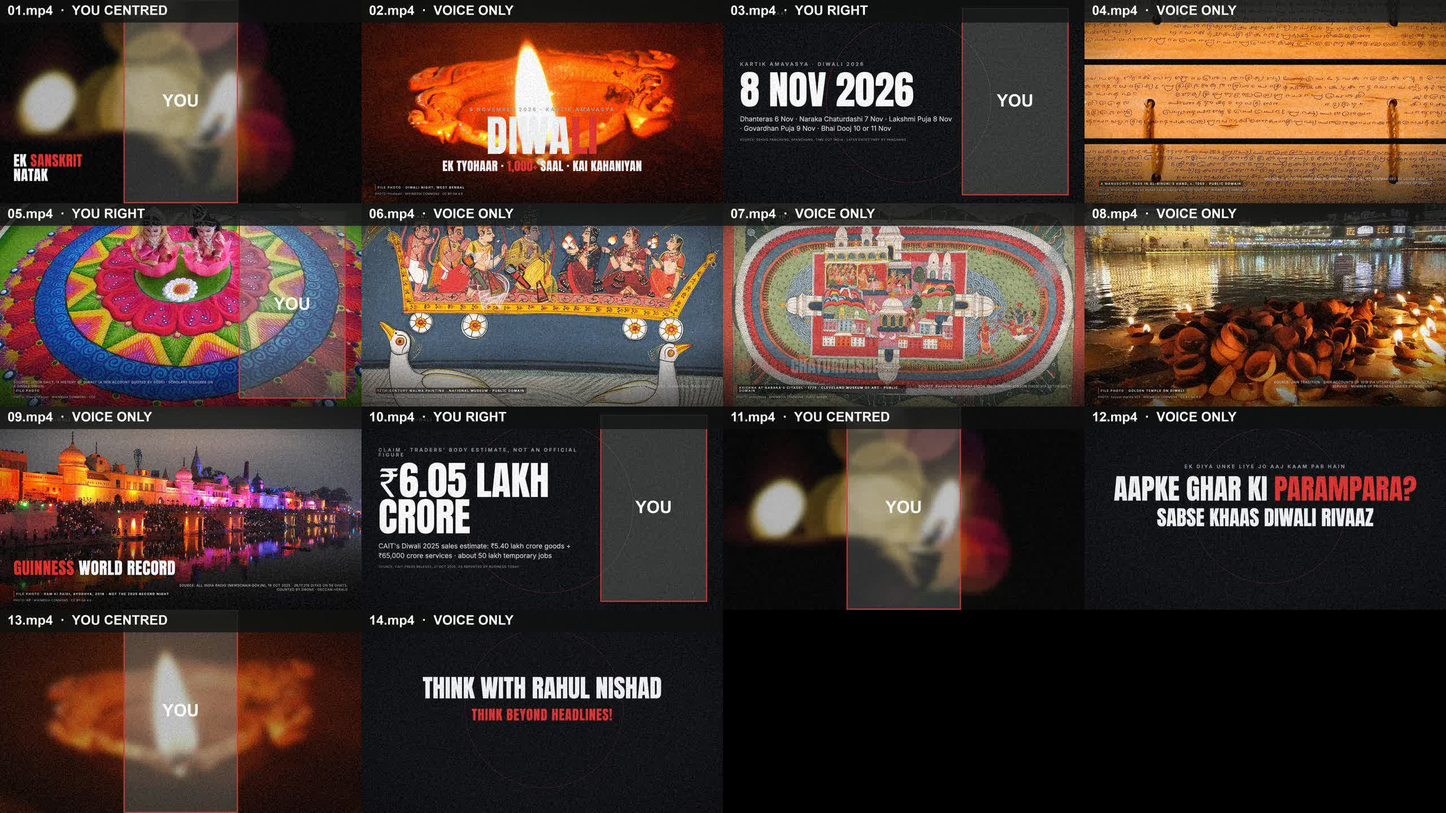
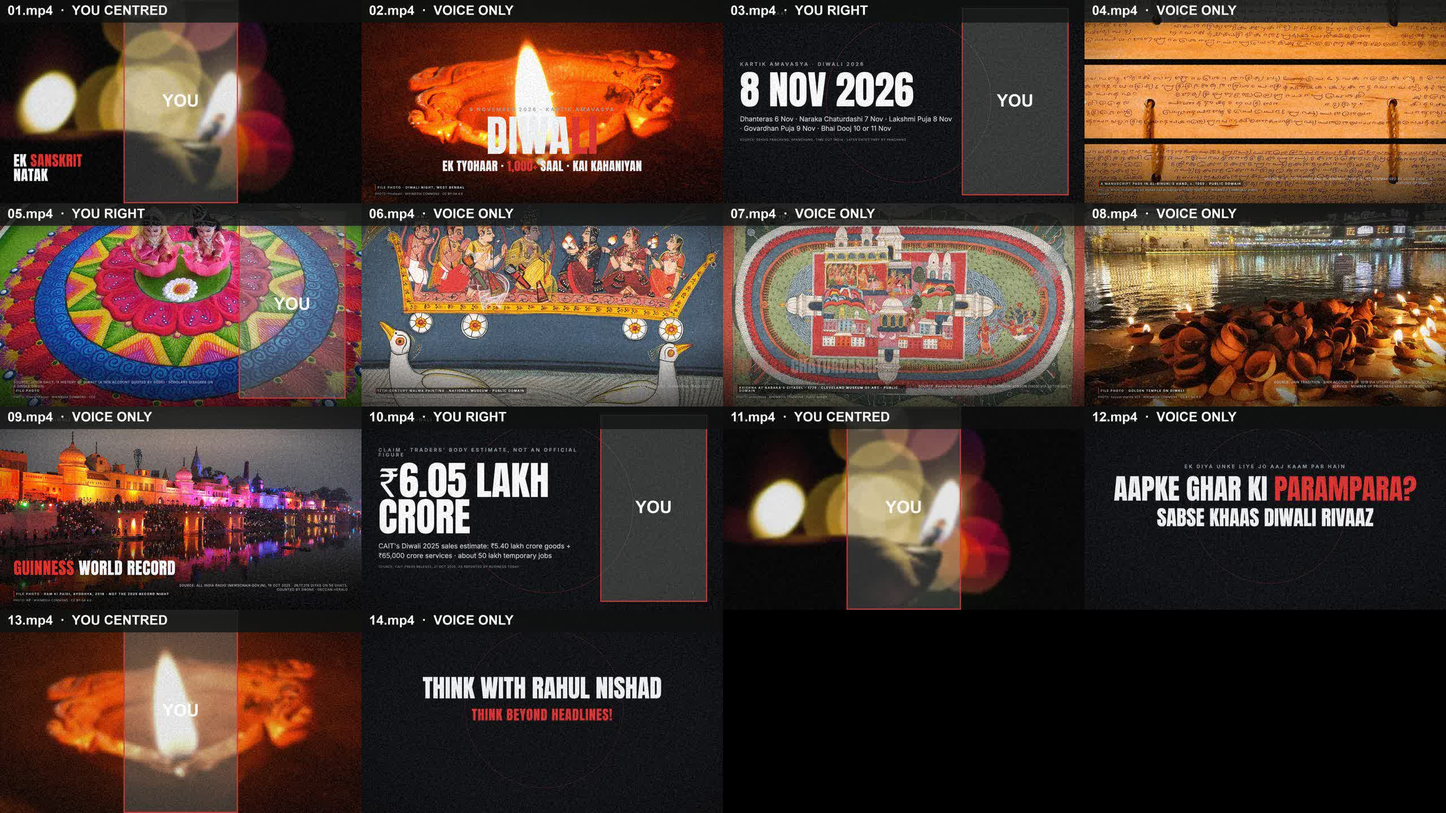
Lighter scene behind Rahul in the centred layout; Panchkula lessons in the skill; handoff note

Changed region(s): [[0.0312, 0.7812, 0.2188, 0.9688], [0.0, 0.0312, 0.2188, 0.2188], [0.5, 0.5312, 0.7188, 0.7188]]

diff --git a/samples/diwali/comp.html b/samples/diwali/comp.html
@@ -461,7 +461,7 @@ function photoLayer(sc,lt,d,mode){const P=sc.photos||[];const box=$('photo');
   const prevNull=i>0&&!P[i-1].src;box.style.background=prevNull?'transparent':'#000';
   B.style.opacity=!prevNull&&fa<1&&B.dataset.k&&i>0?1:0;if(B.dataset.k)kb(B,B.dataset.kb,(lt-parseFloat(B.dataset.s))/Math.max(parseFloat(B.dataset.e)-parseFloat(B.dataset.s),.1));
   const style=mode==='C'?'blur':(sc.photo_style||'full');
-  const FIL={full:'brightness(1.08) contrast(1.06) saturate(1.02)',dim:'brightness(.6) saturate(.85)',blur:'blur(14px) brightness(.72) saturate(.9)',
+  const FIL={full:'brightness(1.08) contrast(1.06) saturate(1.02)',dim:'brightness(.6) saturate(.85)',blur:'blur(7px) brightness(.92) saturate(1)',
     threat:'grayscale(1) sepia(1) hue-rotate(-40deg) saturate(3) brightness(.75) contrast(1.12)',bw:'grayscale(1) contrast(1.18) brightness(1)'};
   const f=FIL[style];
   let ff=f;if(sc.dim_at!=null&&style==='full'){const k=ease((lt-sc.dim_at*d)/.7);ff=`brightness(${lerp(1.08,.45,k)}) contrast(1.06) saturate(${lerp(1.02,.75,k)})`;}
@@ -675,7 +675,7 @@ window.renderFrame=function(f){
   let i=TL.scenes.findIndex(s=>t>=s.start&&t<s.start+s.dur);if(i<0)i=TL.scenes.length-1;
   const sc=TL.scenes[i],lt=t-sc.start,d=sc.dur;
   const mode=sc.layout||'F';document.body.classList.toggle('modeL',mode==='L');document.body.classList.toggle('modeC',mode==='C');
-  $('gl').style.filter=mode==='C'?'blur(16px) brightness(.72)':'none';
+  $('gl').style.filter=mode==='C'?'blur(8px) brightness(.9)':'none';
   LOOKS[sc.look](lt,d,f,sc);
   if(photoLayer(sc,lt,d,mode)&&sc.look.startsWith('map'))$('ov_map').classList.add('hide');
   // chapter tag

diff --git a/skills/think-with-rahul-nishad-production/SKILL.md b/skills/think-with-rahul-nishad-production/SKILL.md
@@ -171,7 +171,17 @@ What this channel does differently from that reference, and keeps doing:
 - **Storyboard stills** render the frame 1 s earlier first, so crossfades show the right previous photo (`stills.js`).
 - **Google Flow mechanics:** Nano Banana stills and edits are free; video is 24 credits per 8 s at 720p. To change an approved still (lighting, an injury, a stripe count), edit it in Flow's editor rather than regenerating, so faces and layout stay the same. The Flow sparkle and Veo marks are blurred with `delogo` in `ai_assets.py`; never crop the frame for them.
 - **Warm topics (festivals, wishes):** structure = hook with a curiosity gap, today's date and meaning, roots (earliest sources), the stories, the other faiths and regions that share the day, one or two hard numbers from today, a reflection, his wishes, the question for comments, sign-off. Smiling is allowed and the face notes say where. Trade-body figures (CAIT and the like) are tagged CLAIM, "ek sangathan ka anumaan hai, sarkari aankda nahi".
-- **Children and victims:** when a story involves minors (Panchkula school case, Nov 2026), never name, show or hint at the identity of any child or family (Juvenile Justice Act and Board orders), no photos of the school, ward or home, no reconstruction of the act, and every cause framed as a question or an attributed expert view. A summary he pastes from another AI is a lead, not a source: open the pages before using any of it.
+- **Children and victims:** when a story involves minors (Panchkula school case, Nov 2026), never name, show or hint at the identity of any child or family (Juvenile Justice Act s.74 and Board orders), no photos of the school, ward or home, no reconstruction of the act, and every cause framed as a question or an attributed expert view. A summary he pastes from another AI is a lead, not a source: open the pages before using any of it.
+- **Background behind him (C layout):** the centred layout blurs and dims the scene; after the Diwali direction video he asked for it to stay visible. `comp.html` now uses `blur(7px) brightness(.92)` for the photo and `blur(8px) brightness(.9)` for the 3D scene. Pick photos with shape and colour (lamps, bokeh, architecture) behind him, not flat dark frames.
+
+## Sensitive minors cases (learned on Panchkula, 8 Nov 2026)
+- **Set the identity rules before research starts.** Every research brief says "do not return names, fathers' names, localities or photo captions", or the research itself becomes the leak. Check whether the Juvenile Justice Board has issued a takedown order; if it has, even "representative" visuals avoid any school gate or child's face.
+- **Verify the legal mechanics yourself:** JJ Act s.12 (bail rule), s.74 (identity bar), BNS s.20–21 (age of criminal responsibility). An AI summary blurred "the Board ordered counselling" when it was the parents' undertaking in the bail plea. Gazette PDFs and official advisories open when indiacode does not.
+- **Which Indian outlets open from this Mac's fetcher:** tribuneindia, theprint (carries PTI copies), amarujala, aajtak, thedailyjagran, ptcnews, dailypioneer, uniindia (first paragraphs), siasat, and syndication mirrors such as thestar.com.my for The Statesman/ANN. Blocked: indiatoday, hindustantimes, indianexpress, timesofindia, ndtv, ncrb.gov.in, indiacode, unesdoc, ncert.nic.in. List blocked pages as pre-publish checks in the README.
+- **Causes are lines of inquiry, not findings:** "jaanch ka hissa hai, nateeja nahi", attributed to a named report, and the balance scene gets its own clip so viewers see the fairness line.
+- **"Well-known" statistics often fail:** UNICEF says "6 in 10", not "3 in 5"; WHO no longer says "half of mental-health conditions by 14" (now one-third before 14, half before 18); the NIMHANS summary PDF 404s. A Lok Sabha written answer (sansad.in PDFs open) is often the strongest Indian number. Drop what cannot be opened.
+- **Length discipline:** a first draft at 20–24 scenes lands near 1,700 words; write to about 50 words per scene from the start and let cards carry the second number.
+- **Pipeline notes:** run the Python helpers with `PYTHONUTF8=1` (or `python3 -X utf8`) or Devanagari can trip a SyntaxError; `commons.py search` is weak for abstract subjects, so search concrete nouns ("empty classroom benches", "hand holding smartphone"); preview every downloaded photo at 480 px for faces before use.
 
 ## Tone rules
 - Conversational, investigative, never robotic or "AI-sounding". Short spoken sentences.

diff --git a/HANDOFF.md b/HANDOFF.md
@@ -72,6 +72,10 @@ On macOS the renderer uses the GPU automatically. Set `RENDER_GPU=1` to force it
 
 `samples/diwali/`: 14-scene, ~4-minute script (`script.long.json`), `RECORDING_SCRIPT.md`, `STORYBOARD.jpg`, 15 licensed Commons photos with `CREDITS.md`, research table in `README.md`, and four proposed Flow clips in `FLOW_CLIP_PLAN.md` (not generated; the gate applies). Direction video not yet rendered. Same commands as fz1073, run inside `samples/diwali`.
 
+## 5c. Third video: Panchkula school case (started 8 Nov 2026)
+
+`samples/panchkula/`: 24-scene, 1,193-word (~8.5 min) investigative script on the Panchkula school assault and the parenting question, written in its own session (commit 5a75de4). Children never identified; causes framed as lines of inquiry. `README.md` lists the blocked outlets (India Today, HT, Indian Express, TOI, NDTV) and the NCERT 81% figure (via Scroll/PTI) as pre-publish checks. Storyboard renders; direction video not yet rendered; four Flow clips proposed, not generated.
+
 ## 6. Open items
 
 1. **Record the 24 clips** against the direction video and run §3.
